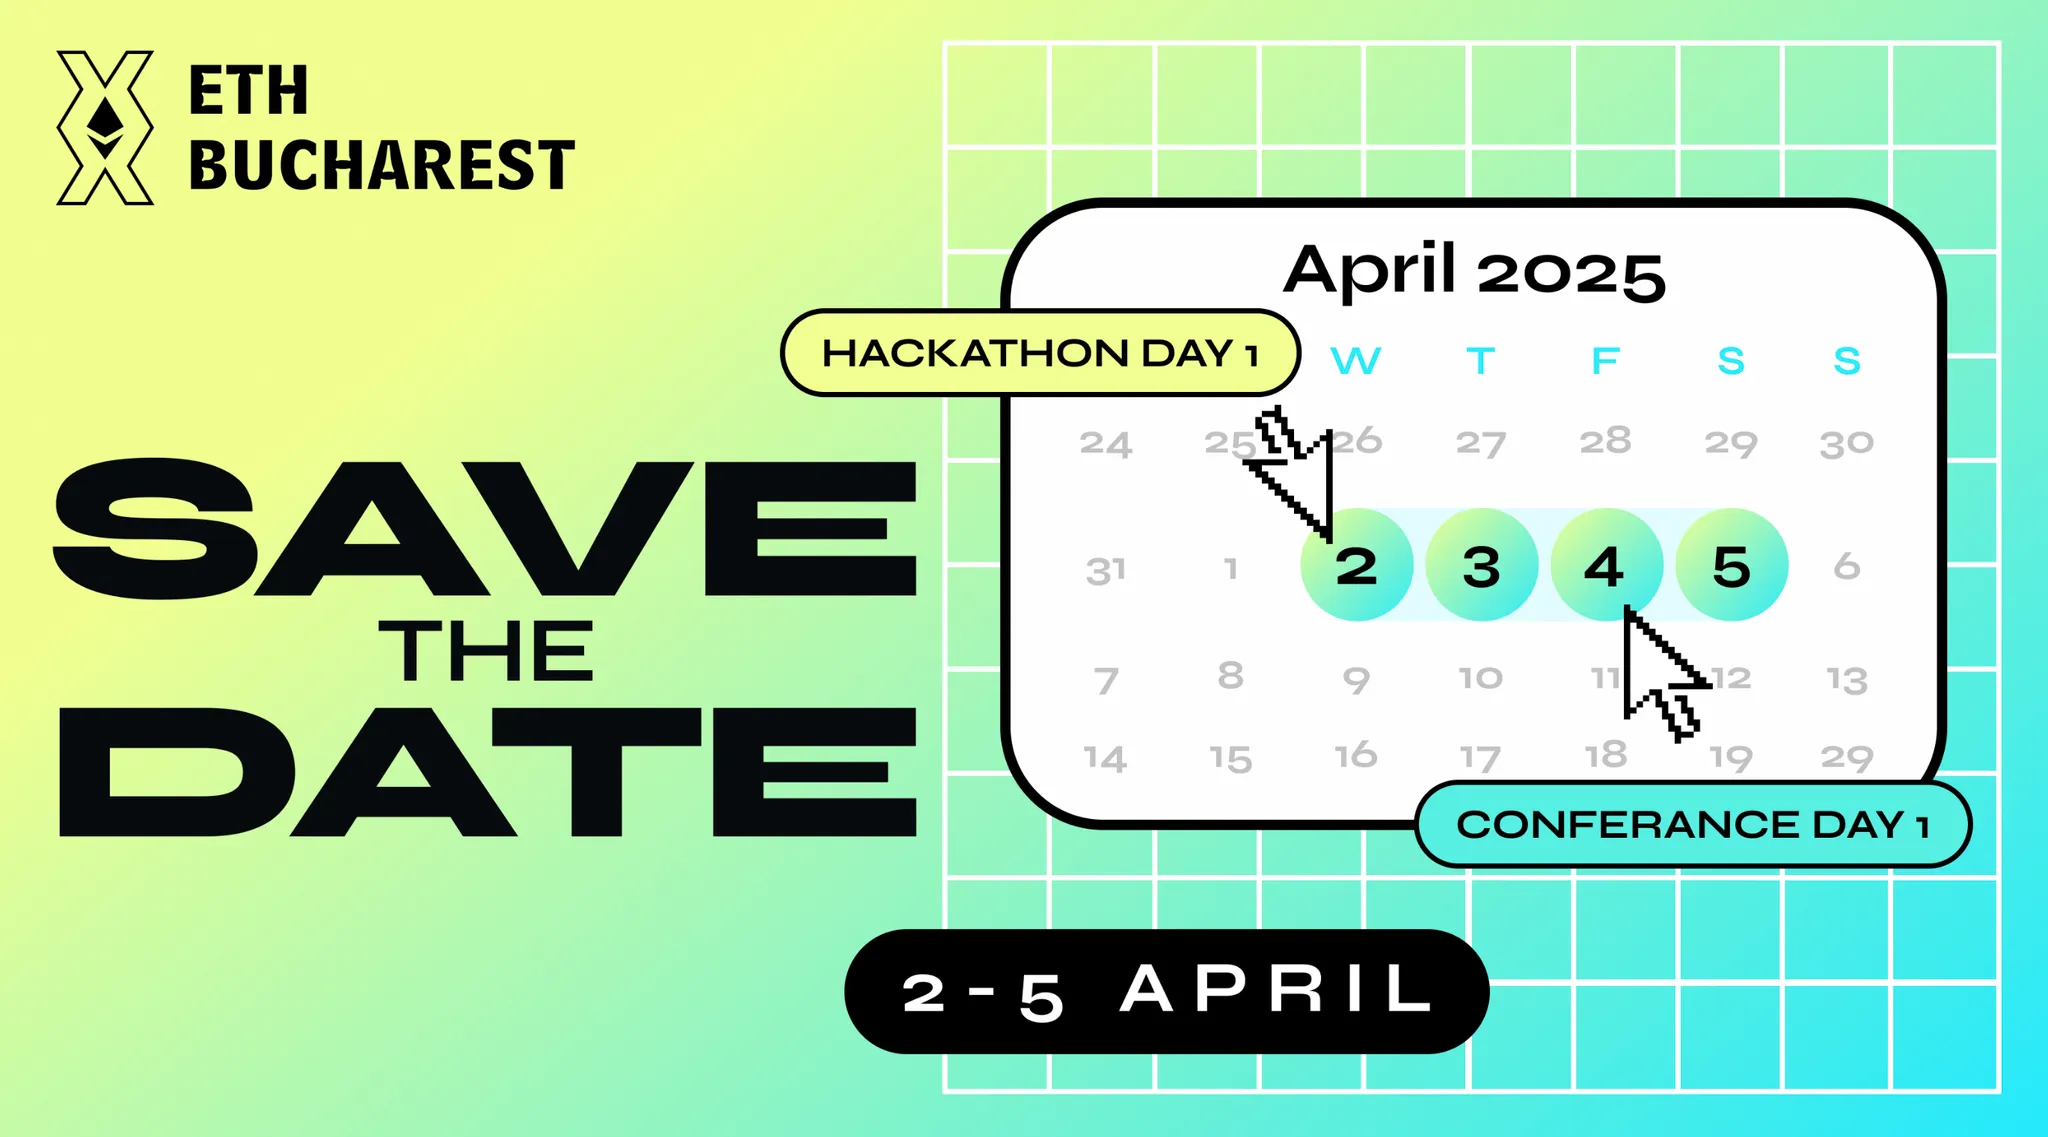
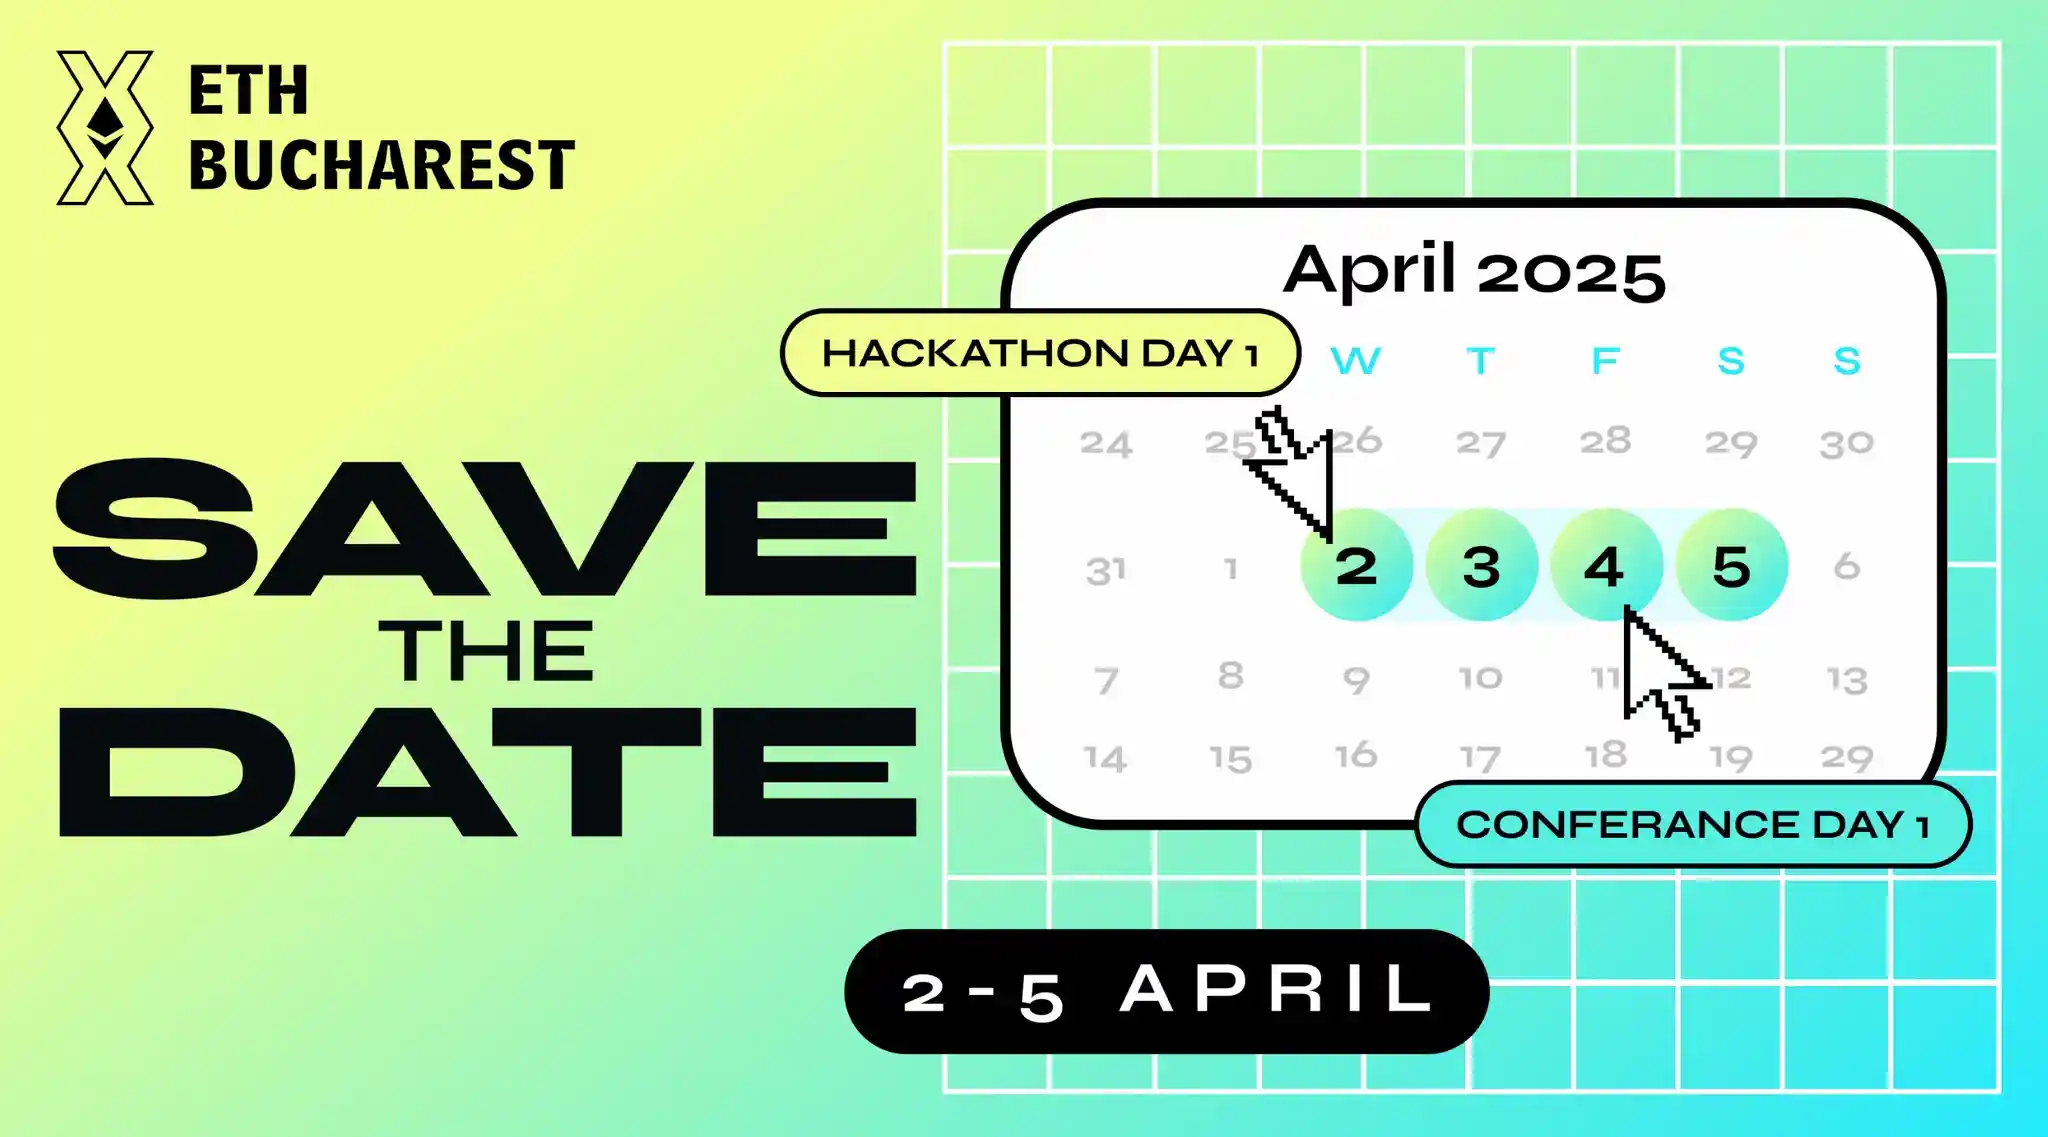
reduced image sizes, published new article

Changed region(s): [[0.8125, 0.708, 0.875, 0.7388]]

diff --git a/dspyt/pages/index.js b/dspyt/pages/index.js
@@ -14,7 +14,7 @@ import { getAllFilesFrontMatter, getFileBySlug } from "@/lib/mdx";
 const people = [
   {
     name: "Dmitrii Fedotov",
-    role: "Lead Developer",
+    role: "Author",
     imageUrl: "/authors/ava-dmitrii.webp",
     twitterUrl: "https://twitter.com/DmitriFedotov",
     linkedinUrl: "https://www.linkedin.com/in/dmitrii-fedotov/",
@@ -24,8 +24,8 @@ const people = [
   },
   {
     name: "Pavel Fedotov",
-    role: "Advisor",
-    imageUrl: "/authors/pavel-ava.webp",
+    role: "Founder",
+    imageUrl: "/authors/pavel-fedotov.webp",
     twitterUrl: "https://twitter.com/pfedprog",
     linkedinUrl: "https://www.linkedin.com/in/pavel-fedotov-pinsave/",
     githubUrl: "https://github.com/pfed-prog",

diff --git a/dspyt/posts/ETHCluj2025.md b/dspyt/posts/ETHCluj2025.md
@@ -1,0 +1,122 @@
+---
+title: "ETHCluj 2025: Shaping the Future of Ethereum and Web3 in Cluj-Napoca"
+date: "March 16, 2025"
+excerpt: "ETHCluj 2025 (June 26-28) unites developers & Web3 leaders exploring Ethereum’s DeFi, AI & DAO innovations to drive decentralized solutions."
+cover_image: "/images/posts/ethereum/ETHCluj2025.webp"
+authors: ["pavel-fedotov"]
+tags:
+  [
+    "ETHCluj 2025",
+    "Ethereum conference 2025",
+    "Cluj-Napoca blockchain conference",
+    "Ethereum Layer 2 scaling",
+    "DeFi innovations",
+    "DAOs in blockchain",
+    "AI blockchain integration",
+    "Smart contract security",
+    "Web3 community events",
+    "Ethereum Romania",
+    "Blockchain education workshops",
+    "Real-world asset tokenization",
+    "Ethereum developers",
+    "Decentralized governance",
+    "Cryptocurrency conferences",
+  ]
+---
+
+**Cluj-Napoca, Romania** – As a proud media partner of **ETHCluj 2025**, Dspyt.com is thrilled to spotlight one of Central Europe's most anticipated blockchain events. From **June 26–28**, 2025, developers, entrepreneurs, and Web3 enthusiasts will gather at the **UTCN Hub** in Cluj-Napoca to explore Ethereum's cutting-edge innovations, decentralized finance (DeFi), and the intersection of AI and blockchain.
+
+## Why ETHCluj 2025 Matters
+
+ETHCluj 2025 isn't just a conference — it's a movement. Organized by a passionate team of Ethereum advocates, including **Simona Serban** (Communications Lead) and **Alex Males** (Serial Hacker), the event embodies Romania's growing role in blockchain education and innovation. With themes spanning **Layer 2 scaling, real-world asset tokenization**, and **DAOs**, ETHCluj bridges technical expertise with real-world impact, fostering a community-driven ethos aligned with Ethereum’s decentralized principles.
+
+## Key Event Details
+
+- Dates: June 26–28, 2025
+
+- Location: [UTCN Hub](https://maps.app.goo.gl/JMJdaU7TkdU7GfaMA), Cluj-Napoca, Romania
+
+- Topics: Ethereum Roadmap, DeFi, AI + Blockchain, DAOs, Smart Contract Security, and more
+
+- Registration: [Get Tickets](https://app.moongate.id/e/eth-cluj-2025)
+
+- Social Media: Follow [@ETHCluj](https://x.com/ETHCluj) | #ETHCluj
+
+## Featured Speakers
+
+ETHCluj 2025 brings together 30+ global leaders, including:
+
+- Péter Szilágyi (Ethereum Foundation) – Core Ethereum Developer
+
+- Peter Jung (Gnosis) – Decentralized Infrastructure
+
+- Ionuț Gîngu (OpenZeppelin) – Smart Contract Security
+
+- Pavel Fedotov (EVM Explorer, Dspyt.com) – Blockchain Analytics
+
+- Vanina Ivanova (Neon EVM) – Scalable Ethereum Solutions
+
+_View the full speaker list [here](https://www.ethcluj.org/)._
+
+## Conference Tracks
+
+1. Builders Onboarding
+   Master tools like **Hardhat** and **Foundry**, and explore smart contract security best practices.
+
+2. AI and Ethereum
+   Dive into AI-driven DApps, autonomous agents, and **Proof of Humanity** systems.
+
+3. Business on Ethereum
+   Navigate DAOs, regulatory compliance, and blockchain integration for enterprises.
+
+4. Usability and Adoption
+   Simplify onboarding with **passkeys**, UX design, and account abstraction.
+
+5. DeFi Evolution
+   Explore stablecoins, real-world assets (RWAs), and sustainable yield strategies.
+
+## Behind ETHCluj: Visionaries Building Community
+
+Founded in 2023, ETHCluj has already made waves with initiatives like:
+
+- **Ethereum Think Tank**: Monthly ideation sessions for Web3 projects.
+
+- **Ethereum Summer School**: Partnering with universities to educate future builders.
+
+- **Community Chill & Chat**: Informal meetups fostering collaboration.
+
+_Impact:_
+
+- 350+ Twitter followers | 440+ LinkedIn members | 320+ Meetup participants
+
+- Hosted 15+ workshops and hackathons since inception
+
+## Venue: UTCN Hub
+
+**The UTCN Hub**, a state-of-the-art facility at Cluj-Napoca Technical University, merges academia with industry. With 30+ labs and seminar rooms, it’s the perfect backdrop for fostering Romania’s tech ecosystem.
+
+## Why Attend?
+
+- **Developers**: Hands-on workshops on Layer 2 scaling and DeFi protocols.
+
+- **Entrepreneurs**: Learn to leverage DAOs and navigate regulatory landscapes.
+
+- **Enthusiasts**: Network with pioneers and explore AI's role in Web3.
+
+## Don't Miss
+
+- **Film Screening**: _Vitalik: An Ethereum Story_
+
+- **Bitcoin Pizza Day Celebration**: Fun, food, and blockchain history
+
+## Partners & Sponsors
+
+ETHCluj 2025 is backed by industry leaders like **AKASHA**, **QuickNode**, and **OpenZeppelin**, alongside community partners including **ETH Belgrade**, **ETHPorto**, and **ETHRome**.
+
+### Connect with ETHCluj
+
+- X (Twitter): [@ETHCluj](https://x.com/ETHCluj)
+
+- LinkedIn: [@ethereumcluj](https://www.linkedin.com/company/ethereumcluj/)
+
+- Telegram: [@ethcluj](https://t.me/ethcluj)

diff --git a/dspyt/authors/pavel-fedotov.md b/dspyt/authors/pavel-fedotov.md
@@ -1,8 +1,8 @@
 ---
 name: Pavel Fedotov
-avatar: "/authors/pavel-ava-profile-page.webp"
-smallAvatar: "/authors/pavel-ava-small.webp"
-company: "Dspyt"
+avatar: "/authors/pavel-fedotov.webp"
+smallAvatar: "/authors/pavel-fedotov.webp"
+company: "Dspyt Inc."
 email: pavel@dspyt.com
 twitter: https://twitter.com/pfedprog
 linkedin: https://www.linkedin.com/in/pavel-fedotov-pinsave/
